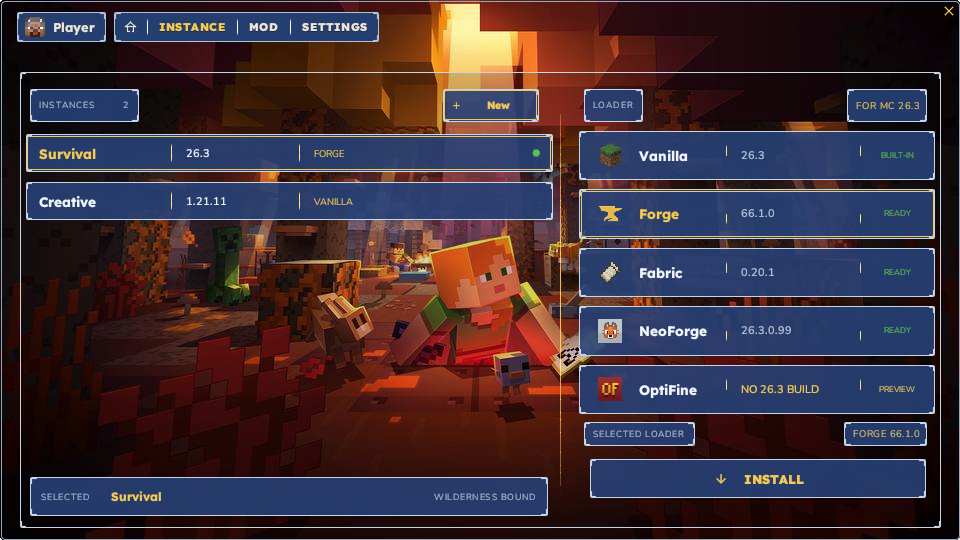
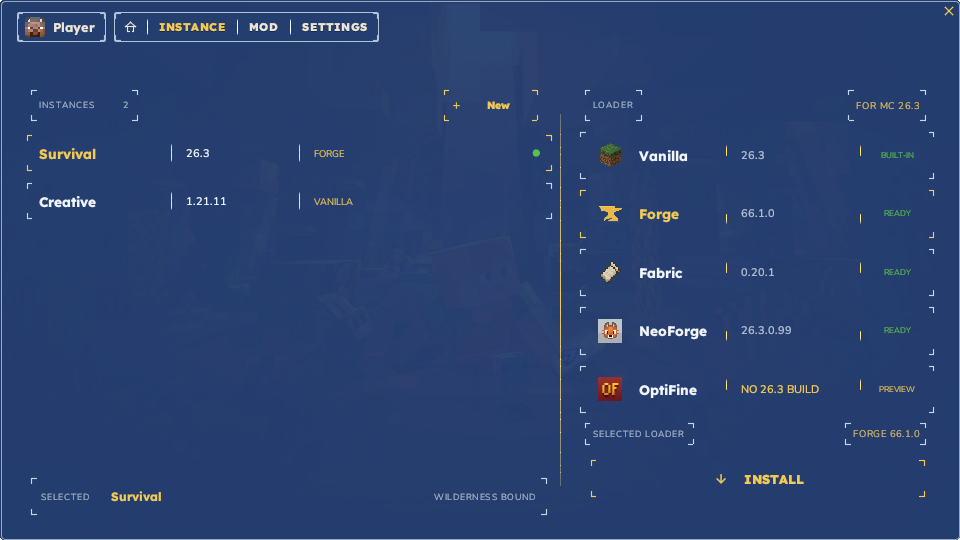
Release 0.2.16 with a blue version-page box and corner-only elements.
The page box is 4% transparent over the wallpaper. Element frames keep only the corner design.

diff --git a/src/desktop.rs b/src/desktop.rs
@@ -801,6 +801,10 @@ impl Desktop {
         let full = ui.max_rect();
         let _ = ui.allocate_rect(full, Sense::hover());
         self.paint_wallpaper(ui, full);
+        if self.tab == Tab::Versions {
+            // Whole version page: blue box, 4% transparent over the wallpaper.
+            ui.painter().rect_filled(full, 0.0, egui::Color32::from_rgba_unmultiplied(36, 62, 112, 245));
+        }
         // Drag only the empty strip above the tabs. A full-window drag was
         // stealing clicks, so the pointer had to sit above the button.
         if !self.draft_open {
@@ -1402,8 +1406,6 @@ impl Desktop {
 
     fn paint_version_page(&mut self, ui: &mut egui::Ui, full: egui::Rect) {
         let veil = drect(full, 26.0, 96.0, 1228.0, 608.0);
-        page_veil(ui.painter(), veil);
-        paint_open_frame(ui.painter(), veil);
         paint_gold_bar(ui.painter(), ux(full, 746.0), veil.top() + 16.0, veil.height() - 32.0);
         self.paint_version_list(ui, full);
         self.paint_loader_panel(ui, full);
@@ -1417,7 +1419,7 @@ impl Desktop {
             egui::pos2(ux(full, 40.0), uy(full, 118.0)),
             egui::pos2(ux(full, 164.0) + count_w + us(full, 14.0), uy(full, 162.0)),
         );
-        paint_element_template(ui.painter(), head);
+        paint_version_corners(ui.painter(), head, false);
         paint_tracked(ui.painter(), egui::pos2(ux(full, 52.0), head.center().y), egui::Align2::LEFT_CENTER, "INSTANCES", head_font.clone(), MUTED, us(full, 1.2));
         paint_gold_bar(ui.painter(), ux(full, 148.0), head.top() + us(full, 6.0), head.height() - us(full, 12.0));
         paint_tracked(ui.painter(), egui::pos2(ux(full, 164.0), head.center().y), egui::Align2::LEFT_CENTER, &count, head_font, MUTED, us(full, 1.0));
@@ -1447,7 +1449,7 @@ impl Desktop {
             let font = body_font(us(full, 15.0));
             let w = ui.painter().layout_no_wrap(msg.to_string(), font.clone(), MUTED).size().x;
             let chip = egui::Rect::from_center_size(list.center(), egui::vec2(w + us(full, 28.0), us(full, 36.0)));
-            paint_element_template(ui.painter(), chip);
+            paint_version_corners(ui.painter(), chip, false);
             ui.painter().text(chip.center(), egui::Align2::CENTER_CENTER, msg, font, MUTED);
             let _ = ui.allocate_rect(list, Sense::hover());
         } else {
@@ -1457,10 +1459,7 @@ impl Desktop {
                     let (rect, resp) = ui.allocate_exact_size(egui::vec2(list.width(), row_h), Sense::click());
                     let on = self.instance_id == inst.id;
                     let chip = rect.shrink2(egui::vec2(us(full, 6.0), us(full, 5.0)));
-                    paint_element_template(ui.painter(), chip);
-                    if on {
-                        ui.painter().rect_stroke(chip.shrink(1.5), 1.5, egui::Stroke::new(1.0, GOLD), egui::StrokeKind::Inside);
-                    }
+                    paint_version_corners(ui.painter(), chip, on);
                     let name_ink = if on { GOLD } else { V_TEXT };
                     let mid_y = rect.center().y;
                     let bar_h = rect.height() * 0.42;
@@ -1485,7 +1484,7 @@ impl Desktop {
         }
 
         let foot = drect(full, 40.0, 636.0, 690.0, 52.0);
-        paint_element_template(&painter, foot);
+        paint_version_corners(&painter, foot, false);
         let bar_h = foot.height() * 0.42;
         let bar_y = foot.center().y - bar_h * 0.5;
         paint_gold_bar(&painter, foot.left() + us(full, 92.0), bar_y, bar_h);
@@ -1603,7 +1602,7 @@ impl Desktop {
             egui::pos2(ux(full, 778.0), uy(full, 118.0)),
             egui::pos2(ux(full, 790.0) + loader_w + us(full, 14.0), uy(full, 162.0)),
         );
-        paint_element_template(ui.painter(), loader_chip);
+        paint_version_corners(ui.painter(), loader_chip, false);
         paint_tracked(ui.painter(), egui::pos2(ux(full, 790.0), loader_chip.center().y), egui::Align2::LEFT_CENTER, "LOADER", loader_font, MUTED, us(full, 1.3));
         let for_mc = format!("FOR MC {}", self.selected);
         let for_font = sub_font(us(full, 13.0));
@@ -1614,7 +1613,7 @@ impl Desktop {
             egui::pos2(for_right, uy(full, 162.0)),
         );
         paint_gold_bar(ui.painter(), for_chip.left() - us(full, 14.0), uy(full, 124.0), us(full, 36.0));
-        paint_element_template(ui.painter(), for_chip);
+        paint_version_corners(ui.painter(), for_chip, false);
         paint_tracked(ui.painter(), egui::pos2(for_chip.right() - us(full, 10.0), for_chip.center().y), egui::Align2::RIGHT_CENTER, &for_mc, for_font, GOLD, us(full, 0.8));
 
         let mc = self.selected.clone();
@@ -1625,10 +1624,7 @@ impl Desktop {
             let rect = drect(full, 768.0, y, 483.0, 78.0);
             let on = self.loader_active(row.id);
             let chip = rect.shrink2(egui::vec2(us(full, 4.0), us(full, 6.0)));
-            paint_element_template(ui.painter(), chip);
-            if on {
-                ui.painter().rect_stroke(chip.shrink(1.5), 1.5, egui::Stroke::new(1.0, GOLD), egui::StrokeKind::Inside);
-            }
+            paint_version_corners(ui.painter(), chip, on);
             let hit = ui.interact(rect, egui::Id::new("loader-row").with(row.id), Sense::click());
             let bar_h = rect.height() * 0.36;
             let bar_y = rect.center().y - bar_h * 0.5;
@@ -1669,7 +1665,7 @@ impl Desktop {
             egui::pos2(ux(full, 778.0), foot_y - us(full, 16.0)),
             egui::pos2(ux(full, 790.0) + sel_w + us(full, 14.0), foot_y + us(full, 16.0)),
         );
-        paint_element_template(ui.painter(), sel_chip);
+        paint_version_corners(ui.painter(), sel_chip, false);
         paint_tracked(ui.painter(), egui::pos2(ux(full, 790.0), foot_y), egui::Align2::LEFT_CENTER, "SELECTED LOADER", sel_font, MUTED, us(full, 1.1));
         if self.loader == "forge+optifine" {
             let ver = selected.as_ref().map(|r| r.version.as_str()).unwrap_or("");
@@ -1685,7 +1681,7 @@ impl Desktop {
                 egui::pos2(right_edge - right_w - us(full, 22.0), foot_y - us(full, 16.0)),
                 egui::pos2(right_edge, foot_y + us(full, 16.0)),
             );
-            paint_element_template(ui.painter(), right_chip);
+            paint_version_corners(ui.painter(), right_chip, false);
             paint_tracked(ui.painter(), egui::pos2(right_chip.right() - us(full, 10.0), foot_y), egui::Align2::RIGHT_CENTER, &right, right_font, V_GOLD, us(full, 0.7));
         } else if let Some(row) = &selected {
             let right = if row.version.is_empty() {
@@ -1700,7 +1696,7 @@ impl Desktop {
                 egui::pos2(right_edge - right_w - us(full, 22.0), foot_y - us(full, 16.0)),
                 egui::pos2(right_edge, foot_y + us(full, 16.0)),
             );
-            paint_element_template(ui.painter(), right_chip);
+            paint_version_corners(ui.painter(), right_chip, false);
             paint_tracked(ui.painter(), egui::pos2(right_chip.right() - us(full, 10.0), foot_y), egui::Align2::RIGHT_CENTER, &right, right_font, V_GOLD, us(full, 0.7));
         }
         let install = drect(full, 786.0, 612.0, 448.0, 52.0);
@@ -3248,6 +3244,12 @@ fn paint_open_frame(painter: &egui::Painter, rect: egui::Rect) {
     paint_corner_caps(painter, rect, edge);
 }
 
+/// Version-page element: corner design only. No fill and no full stroke.
+fn paint_version_corners(painter: &egui::Painter, rect: egui::Rect, on: bool) {
+    let color = if on { GOLD } else { egui::Color32::from_rgb(196, 214, 232) };
+    paint_corner_caps(painter, rect, color);
+}
+
 /// One element, one template. Slightly open so the wallpaper still shows through.
 fn paint_element_template(painter: &egui::Painter, rect: egui::Rect) {
     let fill = egui::Color32::from_rgba_unmultiplied(36, 62, 112, 226);
@@ -3434,7 +3436,7 @@ fn loader_badge_rect(full: egui::Rect, row: egui::Rect) -> egui::Rect {
 
 fn install_button(ui: &mut egui::Ui, rect: egui::Rect, label: &str, enabled: bool) -> bool {
     let hit = ui.interact(rect, egui::Id::new("loader-install"), Sense::click());
-    paint_element_template(ui.painter(), rect);
+    paint_version_corners(ui.painter(), rect, enabled);
     let ink = if enabled { GOLD } else { MUTED };
     if enabled {
         paint_material(ui.painter(), egui::pos2(rect.center().x - us_rect(rect, 54.0), rect.center().y), rect.height() * 0.36, I_DOWN, ink);
@@ -3448,10 +3450,7 @@ fn install_button(ui: &mut egui::Ui, rect: egui::Rect, label: &str, enabled: boo
 
 fn pill_action(ui: &mut egui::Ui, rect: egui::Rect, label: &str, primary: bool) -> bool {
     let hit = ui.interact(rect, egui::Id::new("pill-action").with(label), Sense::click());
-    paint_element_template(ui.painter(), rect);
-    if primary {
-        ui.painter().rect_stroke(rect.shrink(1.5), 1.5, egui::Stroke::new(1.0, GOLD), egui::StrokeKind::Inside);
-    }
+    paint_version_corners(ui.painter(), rect, primary);
     let ink = if primary { GOLD } else { egui::Color32::from_rgb(255, 246, 226) };
     paint_material(ui.painter(), egui::pos2(rect.left() + rect.height() * 0.42, rect.center().y), rect.height() * 0.34, I_ADD, ink);
     ui.painter().text(egui::pos2(rect.center().x + 8.0, rect.center().y), egui::Align2::CENTER_CENTER, label, nav_font(rect.height() * 0.32), ink);

diff --git a/README.md b/README.md
@@ -124,8 +124,8 @@ Linux sandbox: `apt install bubblewrap`. Without it, the client still gets a pri
 
 | Platform | File |
 | --- | --- |
-| Linux x86-64 | [rus-linux-x86_64](https://github.com/obsifox/rus/releases/download/0.2.15/rus-linux-x86_64) |
-| Windows x64 | [rus-windows-x64.exe](https://github.com/obsifox/rus/releases/download/0.2.15/rus-windows-x64.exe) |
+| Linux x86-64 | [rus-linux-x86_64](https://github.com/obsifox/rus/releases/download/0.2.16/rus-linux-x86_64) |
+| Windows x64 | [rus-windows-x64.exe](https://github.com/obsifox/rus/releases/download/0.2.16/rus-windows-x64.exe) |
 
 Linux:
 
